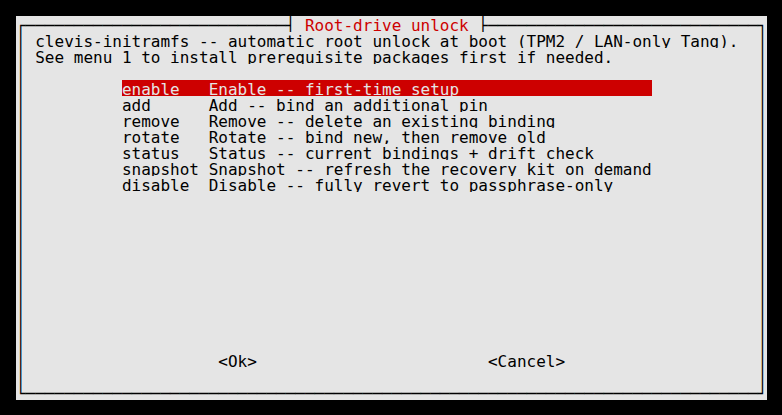
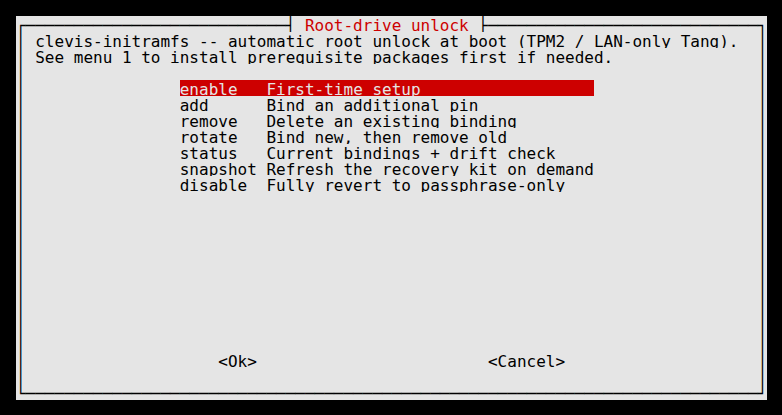
Fix redundant menu-13 labels, hyperlink Lessons Learned mentions, refresh screenshots
Menu 13's action menu repeated itself on screen -- "enable  Enable --
first-time setup", "add  Add -- bind an additional pin", etc. -- since
each description restated the tag word already shown in the left
column. Descriptions now just say what the action does; the tag
itself already says which one it is.

Every plain-text "Lessons Learned" mention across README.md and
docs/usage/*.md/future-work.md is now an actual markdown hyperlink to
the wiki page, not just text naming it -- these only ever worked as
GitHub wiki-internal [[double-bracket]] links, which do nothing in a
regular repository file.

Regenerated both README screenshots against the real, current
whiptail output: the main menu was stale (missing menu 14, added
after the screenshot was taken), and the root-unlock menu now shows
the corrected, non-repeated labels.

Changed region(s): [[0.1535, 0.1735, 0.8286, 0.4627], [0.7366, 0.1735, 0.8593, 0.2313]]

diff --git a/docs/future-work.md b/docs/future-work.md
@@ -390,7 +390,9 @@ testing can point at the first VM's already-running Tang server for a
 genuine cross-host case. The first VM's Tang is deliberately kept on a
 non-default port (7591, reconfigured via menu 2 itself rather than by
 hand, which incidentally re-exercised that menu for real and caught
-two unrelated real bugs — see Lessons Learned) at `192.168.86.41`, so
+two unrelated real bugs — see
+[Lessons Learned](https://github.com/warden-project/warden/wiki/Lessons-Learned))
+at `192.168.86.41`, so
 it's ready as the LAN-Tang test target whenever this gets picked up:
 point the LUKS-root VM's root-unlock Tang pin at
 `192.168.86.41:7591`.
@@ -450,7 +452,8 @@ ever wanted.
 
 **Architecture below is validated against real hardware** (Ubuntu
 24.04 VM, real reboots, not just read from docs) — see the wiki's
-Lessons Learned page for the three real bugs this testing found and
+[Lessons Learned](https://github.com/warden-project/warden/wiki/Lessons-Learned)
+page for the three real bugs this testing found and
 fixed along the way: a pre-existing, ZFS-unrelated boot-unlock gap for
 any "no mountpoint" device, a genuine systemd ordering-cycle trap in
 the first ZFS-ordering approach tried, and cryptsetup refusing a
@@ -489,7 +492,9 @@ crypttab entry Warden creates has `_netdev` set, which routes its
 of `cryptsetup.target` — and `remote-cryptsetup.target` is disabled by
 default. This isn't ZFS-specific at all: it's why a device enrolled
 with mountpoint "none" never unlocked at boot even on the existing
-ext4 path (now fixed — see Lessons Learned). Enabling
+ext4 path (now fixed — see
+[Lessons Learned](https://github.com/warden-project/warden/wiki/Lessons-Learned)).
+Enabling
 `remote-cryptsetup.target` (`ensure_systemd_unit_enabled`, already
 landed in `complete_enrolment`) is a prerequisite this ZFS work
 inherits for free, not something ZFS support needs to solve itself.
@@ -605,7 +610,8 @@ currently imported" if it isn't right now) instead of an fstab line
 that would never apply to a ZFS-backed device anyway.
 
 Confirmed via the real dashboard on the test VM, and it caught two
-real bugs bats' stubbed tests hadn't (see the wiki's Lessons Learned
+real bugs bats' stubbed tests hadn't (see the wiki's
+[Lessons Learned](https://github.com/warden-project/warden/wiki/Lessons-Learned)
 page): `unit_state`'s existence check doesn't work for
 template-instantiated unit names, and `zfs list`'s tab-separated
 output rendered as visually cramped/misaligned in whiptail's textbox.

diff --git a/README.md b/README.md
@@ -24,7 +24,8 @@ during development, not adopted as abstract best practice:
   Reachability is tested, not inferred. Several real bugs in this
   project existed specifically because an assumption — about a path, a
   device state, a config default — went unchecked; see the wiki's
-  Lessons Learned page for the actual incidents.
+  [Lessons Learned](https://github.com/warden-project/warden/wiki/Lessons-Learned)
+  page for the actual incidents.
 - **Prove it on real hardware, not just in a test suite.** The bats
   suite runs against loop-device-backed images and catches most
   regressions cheaply, but it cannot catch everything a real reboot
@@ -66,8 +67,9 @@ during development, not adopted as abstract best practice:
 
 Every one of the above has been driven interactively against real
 Ubuntu Server hardware with real reboots, not just exercised through
-the automated test suite — see the wiki's Lessons Learned page for
-what that testing actually found and fixed along the way.
+the automated test suite — see the wiki's
+[Lessons Learned](https://github.com/warden-project/warden/wiki/Lessons-Learned)
+page for what that testing actually found and fixed along the way.
 
 ## Screenshots
 
@@ -167,8 +169,8 @@ because of real incidents, not hypothetical caution:
   always keeps the original LUKS passphrase working, with a
   machine-specific recovery kit generated before any change is made.
 
-See the wiki's "Lessons learned" page for the full background on each
-real incident referenced above.
+See the wiki's [Lessons Learned](https://github.com/warden-project/warden/wiki/Lessons-Learned)
+page for the full background on each real incident referenced above.
 
 ## Testing
 

diff --git a/docs/usage/05-luks-enrolment.md b/docs/usage/05-luks-enrolment.md
@@ -47,11 +47,14 @@ saved trust configuration (menu 3) first.
    rather than at the next reboot. For a ZFS-backed device, this
    involves a brief export/close/reopen/reimport dance instead of a
    simple second mapping, since the device is already open under its
-   real name by this point (see the wiki's Lessons Learned page).
+   real name by this point (see the wiki's
+   [Lessons Learned](https://github.com/warden-project/warden/wiki/Lessons-Learned)
+   page).
 8. If any address in the trust configuration is Tailscale-flagged,
    also adds a `systemd-cryptsetup@<mapper>.service.d` drop-in ordering
    this device's unlock after `tailscale-online.target` — idempotent,
    backed up before any change, using the properly systemd-escaped
    unit name for the mapper. See the wiki's "Tailscale ordering gap"
-   entry (Lessons Learned) for why this matters: `network-online.target`
-   alone doesn't guarantee the tailnet is actually reachable yet.
+   entry in [Lessons Learned](https://github.com/warden-project/warden/wiki/Lessons-Learned)
+   for why this matters: `network-online.target` alone doesn't
+   guarantee the tailnet is actually reachable yet.

diff --git a/docs/usage/04-luks-setup.md b/docs/usage/04-luks-setup.md
@@ -38,9 +38,10 @@ configuration (menu 3) first.
    `/etc/fstab` entry (ZFS doesn't use one) — instead enables a
    per-device `warden-zfs-import@<mapper>.service` unit that imports
    and mounts the pool once the device unlocks at boot. See the wiki's
-   Lessons Learned page for why this needed its own dedicated unit
-   rather than a drop-in on the shared `zfs-import-*` units (two real
-   systemd ordering cycles, found via actual reboot tests).
+   [Lessons Learned](https://github.com/warden-project/warden/wiki/Lessons-Learned)
+   page for why this needed its own dedicated unit rather than a
+   drop-in on the shared `zfs-import-*` units (two real systemd
+   ordering cycles, found via actual reboot tests).
 
 The recovery passphrase is piped to `cryptsetup` on stdin, never passed
 as a command-line argument or written to the session log — only the

diff --git a/docs/usage/01-install.md b/docs/usage/01-install.md
@@ -7,7 +7,9 @@ what each component does, before asking what to install.
 - **Tang only** — installs `tang`.
 - **Clevis only** — installs `clevis clevis-luks clevis-systemd` (all
   three, every time — `clevis-systemd` being silently missed is a
-  confirmed past incident; see the wiki's Lessons Learned page).
+  confirmed past incident; see the wiki's
+  [Lessons Learned](https://github.com/warden-project/warden/wiki/Lessons-Learned)
+  page).
 - **Both** — both of the above.
 - Optionally offers `clevis-tpm2` (TPM2 pin support) when Clevis is
   selected, with a one-line note that PCR-sealed bindings can break

diff --git a/docs/usage/06-late-boot-unlocker.md b/docs/usage/06-late-boot-unlocker.md
@@ -4,7 +4,7 @@ Verifies `clevis-systemd` is actually installed before doing anything
 else — this exact gap (installed `clevis`/`clevis-luks` but not
 `clevis-systemd`) is a confirmed past incident that silently broke
 boot-time unlock while everything else looked correct. See the wiki's
-Lessons Learned page.
+[Lessons Learned](https://github.com/warden-project/warden/wiki/Lessons-Learned) page.
 
 - If `clevis-systemd` isn't installed, stops and tells you to install
   it from menu 1 — it does not proceed on an assumption.
